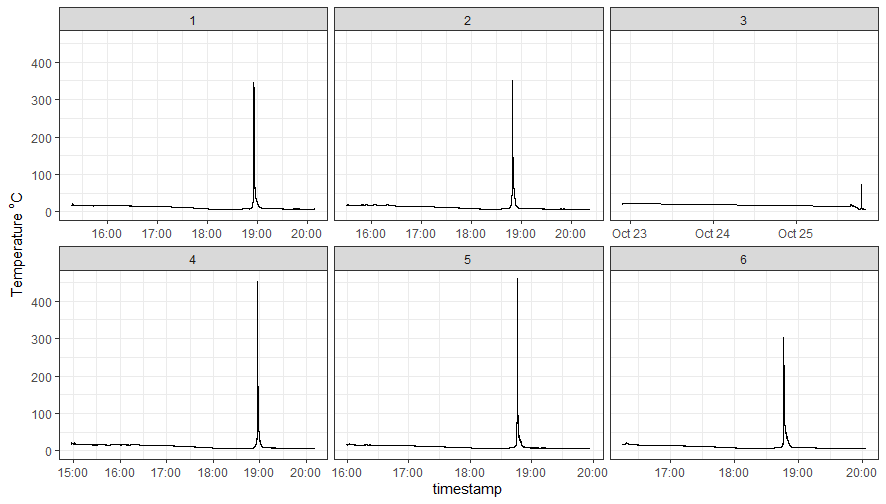
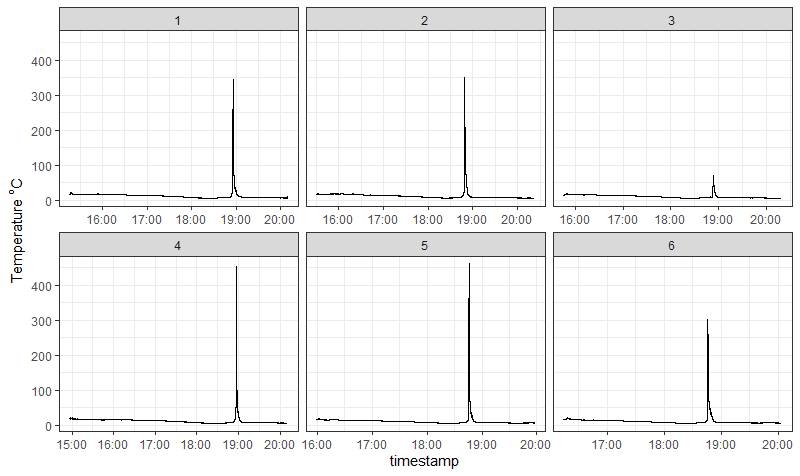
Update Oakville example

Changed region(s): [[0.0, 0.0, 1.0, 1.0]]

diff --git a/FeatherFlame/OakvilleExample/README.md b/FeatherFlame/OakvilleExample/README.md
@@ -1,0 +1,168 @@
+
+## Packages \& data 
+
+I'm partial to using *pacman* for package installation and loading ¯\_(ツ)_/¯ 
+
+``` r
+if (!require("pacman")) install.packages("pacman")
+  pacman::p_load(tidyverse, magrittr, lubridate)
+```
+Two options for downloading the example data from Oakville Prairie:
+
+* If you think you want to keep the files, download the `.zip` file yourself and put the raw files somewhere you can find them: [OakvilleExampleData.zip](https://github.com/devanmcg/FireScienceDIY/raw/master/FeatherFlame/OakvilleExample/OakvilleExampleData.zip)
+* If you just want to see how this all works, use this script to have **R** download and unzip by itself to a temporary folder that will go away eventually:
+
+``` r
+
+  data_url = "https://github.com/devanmcg/FireScienceDIY/raw/master/FeatherFlame/OakvilleExample/OakvilleExampleData.zip"
+  tmp_dir  = tempdir()
+  tmp_file = tempfile(tmpdir = tmp_dir, fileext = ".zip")
+  download.file(data_url, tmp_file) 
+  unzip(tmp_file, exdir = tmp_dir)
+```
+Either way you need to tell **R** where to find the raw data files. 
+Specify a directory as `DataDir`:
+
+``` r
+# Get string of raw file names. 
+  # Identify the directory. 
+  # Assuming you used the download script above:
+    DataDir = tmp_dir
+  # If you saved & unzipped yourself, uncomment & modify this one: 
+    # DataDir = "C:/Users/"
+```
+
+This script goes and gets the individual files from each FeatherFlame datalogger and combines them into a single `tibble` object in your **R** workspace. 
+It does a few other things along the way:
+* stores in long format 
+* converts timestamp and temperature classes
+* Reduces length by finding the highest temp for each 1 s from the half-second resolution data
+
+``` r
+# Get string of file names
+  files <- list.files(path=DataDir, pattern=".TXT$")
+  
+# Create empty tibble
+  oak_d <- tibble() 
+
+# Load & process individual data files 
+  for(i in 1:length(files)) {
+    oak_d <-
+      file.path(paste(DataDir, "/", files[i], sep="")) %>%
+      read_csv(col_types = cols(.default = "c"), 
+               col_names = FALSE )  %>%
+      gather("tc","temp", -X1, -X2) %>%
+      setNames(c("logger","timestamp","tc","temp")) %>%
+        # if logger was programmed to record more than 4 sensors,
+        # add additional lines starting with tc == "X7" ~ "5"
+        # to the case_when() call as necessary:
+      mutate(tc = case_when(  
+                tc == "X3" ~ "1", 
+                tc == "X4" ~ "2", 
+                tc == "X5" ~ "3", 
+                tc == "X6" ~ "4")) %>%
+      filter(temp != "nan") %>%
+      mutate(timestamp = as.POSIXct(timestamp, 
+                                    format = "%Y-%m-%d %H:%M:%OS"), 
+             temp = as.numeric(temp)) %>%
+      group_by(logger, tc, timestamp) %>%
+      summarize(temp = max(temp)) %>%
+      ungroup %>%
+      bind_rows(., oak_d)
+  }
+```
+
+## Graphing 
+
+Since the loggers were deployed prior to ignition, there are hours of meaningless data on the ambient air temperature on either side of the few seconds we're interested in -- when the flame front passes. 
+Let's just look at one thermocouple as an example:
+
+<img src="https://github.com/devanmcg/FireScienceDIY/raw/master/FeatherFlame/OakvilleExample/AllAfternoonLogger2.png" width="600">
+
+So we should filter down to get the relevant data. 
+This is a tough process to automate.
+For now, we'll just filter down to the 30 min or so of action:
+
+``` r
+  oak_d %<>% filter(hour(timestamp) >= 18, 
+                    hour(timestamp) <= 18.5, 
+                    temp >= 20)
+```
+Now we can get a good look at our time-temperature curves:
+
+``` r 
+  oak_d %>%
+    ggplot() + theme_bw(16) +
+    geom_line(aes(x=timestamp, y=temp, 
+                  color=tc), show.legend = F) +
+    facet_wrap(~logger, scales = "free_x", 
+               labeller = label_both) +
+    scale_color_manual(values = c("blue", "blue", 
+                                  "blue", "black")) +
+    labs(y = expression("Temperature "^o*C)) + 
+    theme(axis.text.x = element_text(size=10)) 
+```
+
+<img src="https://github.com/devanmcg/FireScienceDIY/raw/master/FeatherFlame/OakvilleExample/TTcurves.png" width="600">
+
+There are some interesting things going on here: 
+* Lag effects between standing fuel and litter. 
+  - The time-temperature trends for the three thermocouple probes held above the ground in the triangular array are plotted in blue, while the probe placed on the soil surface is plotted in black. 
+  - Note how the soil surface probe temp generally raises more slowly, and later, than the other probes. 
+  This is a consequence of post-frontal combustion, or smouldering, in the litter layer after the main flame front passes. 
+  - Without multiple sensors per logger, it would be difficult to get these data at the same point. 
+  And without the synchronised timestamp from the common logger here, it would be a lot of work to ensure timestamps lined up enough to detect the lag effect.
+* Differences between peak temps = rate of spread.
+  - The numerals represent rate of spread through the triangular array, as calculated below. 
+  - Those calculations basically quantify what we can see among the peaks.
+
+## Analysis
+
+First, we find the row in which each thermocouple in the triangular array recorded peak temperature: 
+
+``` r
+  oak_max <- 
+    oak_d %>% 
+      filter(tc != "4") %>%
+        group_by(logger, tc) %>%
+          slice(which.max(temp)) %>%
+        ungroup 
+```
+This chunk is where the magic happens: via a `dplyr` pipe we crunch the equations provided by [Simard et al. (1982)](https://doi.org/10.1007/BF02473134) to calculate how fast the flame front moved through the triangular array, using the seconds of peak temperature as the arrival time at each point:
+
+``` r
+# Define the sides of the array equilateral triangle 
+  D = 1 # 1m
+
+# Create a tibble of rate of spread by FF logger
+  ROS <- 
+    oak_max %>%
+    mutate( Time = format(timestamp, "%T"), 
+            Time = seconds(hms(Time))) %>%
+    select(-tc, -temp, -timestamp) %>%
+    group_by(logger) %>%
+    arrange(Time, .by_group = TRUE) %>% 
+    mutate(position = order(order(Time, decreasing=FALSE)), 
+           position = recode(position, "1"="a", "2"="b", "3"="c"), 
+           Time = as.numeric(Time) /60 ) %>%
+    spread(position, Time)  %>%
+    ungroup %>% 
+    mutate( theta_rad = atan((2*c - b - a) / (sqrt(3)*(b - a))), 
+            ros = case_when(
+              a == b ~ (sqrt(3) / 2) / (c - a) , 
+              a != b ~  (D*cos(theta_rad) / (b - a) ) 
+            )) %>%
+    select(-a, -b, -c, -theta_rad)
+```
+|logger |      ros|
+|:------|--------:|
+|1      | 2.002970|
+|2      | 3.375264|
+|3      | 3.511234|
+|4      | 4.610840|
+|5      | 2.559961|
+|6      | 3.273268|  
+    
+
+  
+
